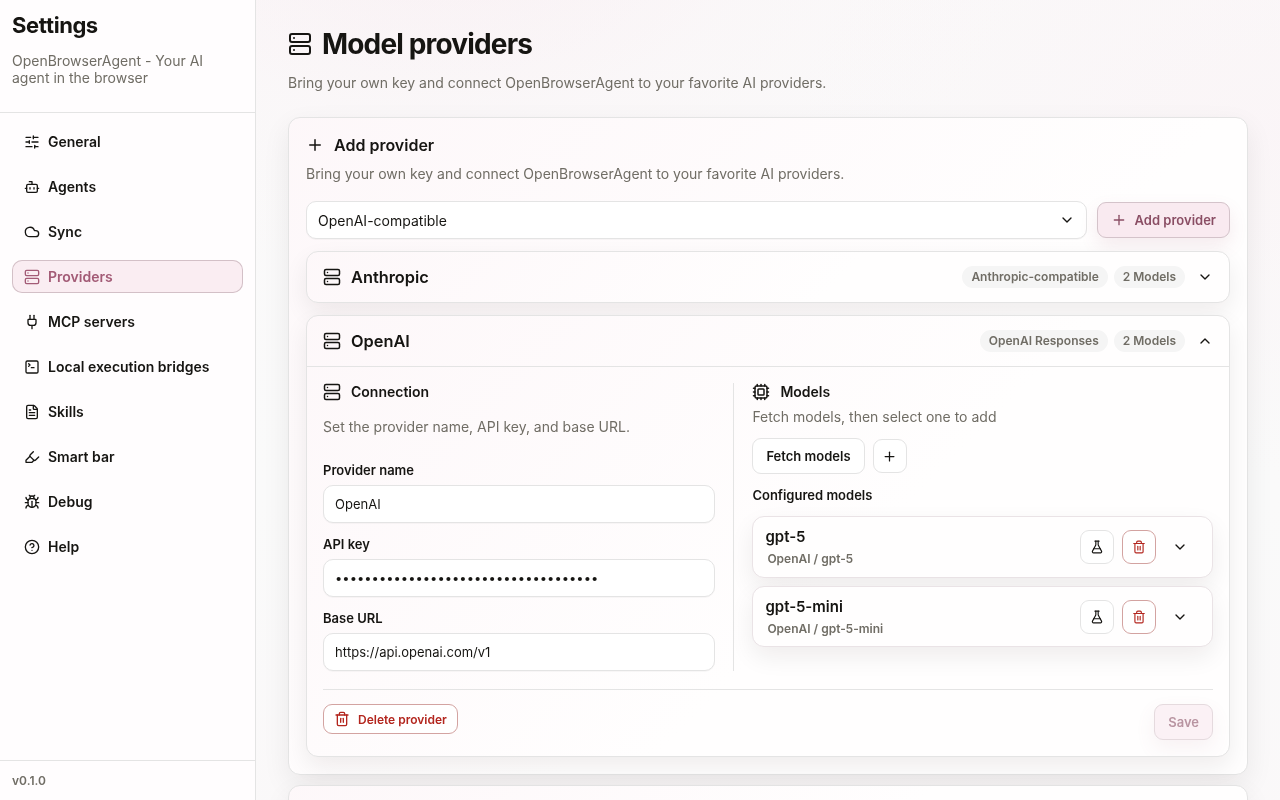
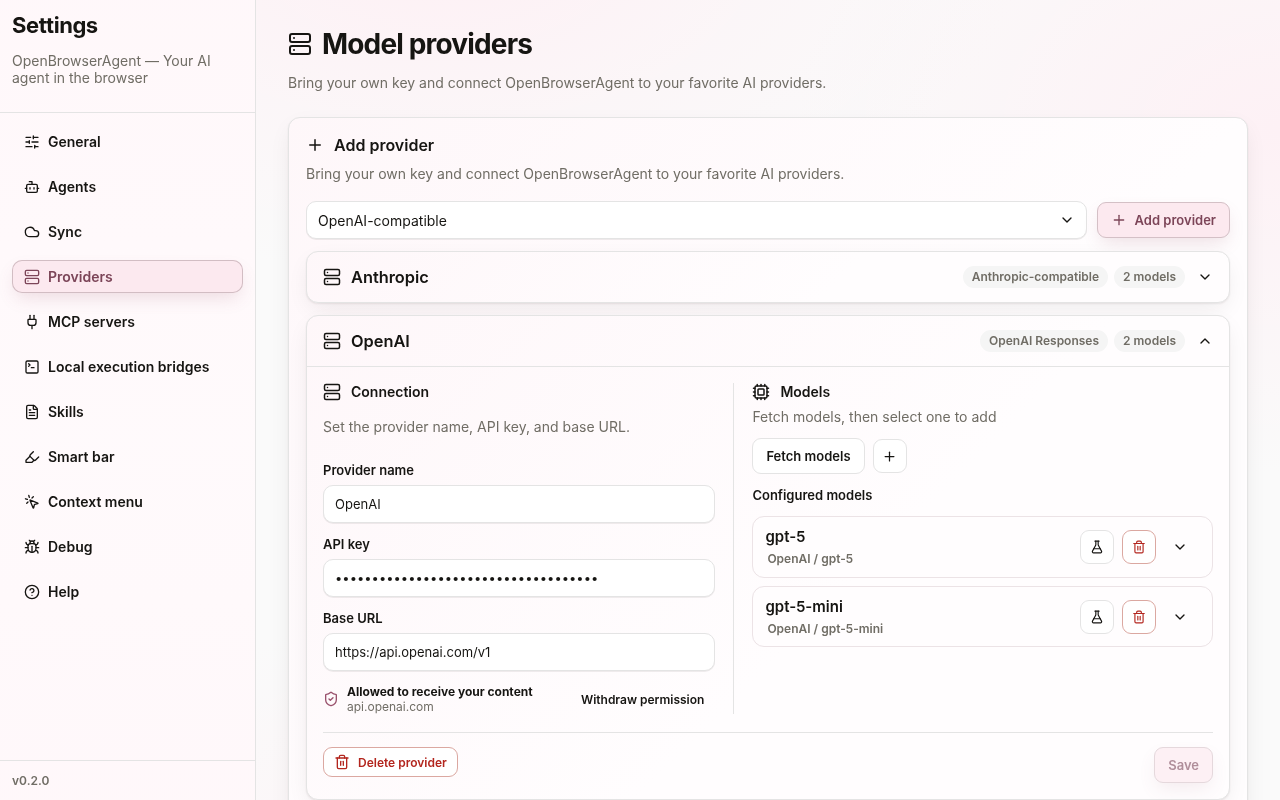
fix(options): keep the provider permission state on one row
Refresh the providers store screenshot with the permission shown, and
let the side panel question take focus without a ring.

diff --git a/entrypoints/options/provider-consent-field.tsx b/entrypoints/options/provider-consent-field.tsx
@@ -7,7 +7,7 @@ import {
   withProviderConsent,
 } from "../../src/shared/provider-consent";
 import type { ProviderConfig } from "../../src/shared/types";
-import { Badge, Button, Checkbox, Feedback } from "../../src/ui/components";
+import { Button, Checkbox, Feedback } from "../../src/ui/components";
 import { providerConsentAgreement } from "../../src/ui/provider-display";
 
 // The user's permission for the provider to receive their content: a
@@ -41,11 +41,9 @@ export function ProviderConsentField({
         <ShieldCheck size={16} aria-hidden="true" />
         <span className="provider-consent-summary">
           <strong>{t.providerConsent.allowed}</strong>
-          <Badge title={host}>
-            <span className="provider-consent-host">{host}</span>
-          </Badge>
+          <small title={host}>{host}</small>
         </span>
-        <Button variant="outline" size="sm" onClick={onWithdraw}>
+        <Button variant="ghost" size="sm" onClick={onWithdraw}>
           {t.providerConsent.withdraw}
         </Button>
       </div>

diff --git a/src/ui/styles/options-sections.css b/src/ui/styles/options-sections.css
@@ -78,28 +78,22 @@
   margin: 0;
 }
 .provider-consent-status {
-  display: flex;
-  flex-wrap: wrap;
+  display: grid;
+  grid-template-columns: auto minmax(0, 1fr) auto;
   align-items: center;
   gap: var(--space-2);
   color: var(--accent-strong);
 }
 .provider-consent-summary {
   min-width: 0;
-  flex: 1 1 auto;
-  display: flex;
-  flex-wrap: wrap;
-  align-items: center;
-  gap: 6px;
+  display: grid;
   color: var(--foreground);
   font-size: var(--text-sm);
 }
-.provider-consent-summary .ui-badge {
-  min-width: 0;
-  max-width: 100%;
-}
-.provider-consent-host {
+.provider-consent-summary small {
   overflow: hidden;
+  font-size: var(--text-sm);
+  color: var(--muted-foreground);
   text-overflow: ellipsis;
   white-space: nowrap;
 }

diff --git a/src/ui/styles/composer.css b/src/ui/styles/composer.css
@@ -229,9 +229,10 @@
   background: color-mix(in oklab, var(--accent-softer) 42%, var(--card));
   animation: enter var(--duration-slow) var(--ease-out) backwards;
 }
-.composer-card:focus-visible {
-  outline: 2px solid var(--ring);
-  outline-offset: 2px;
+/* A question takes the focus only so screen readers announce it; its
+   buttons show the focus ring. */
+.composer-card:focus {
+  outline: none;
 }
 .composer-card-header {
   display: grid;
